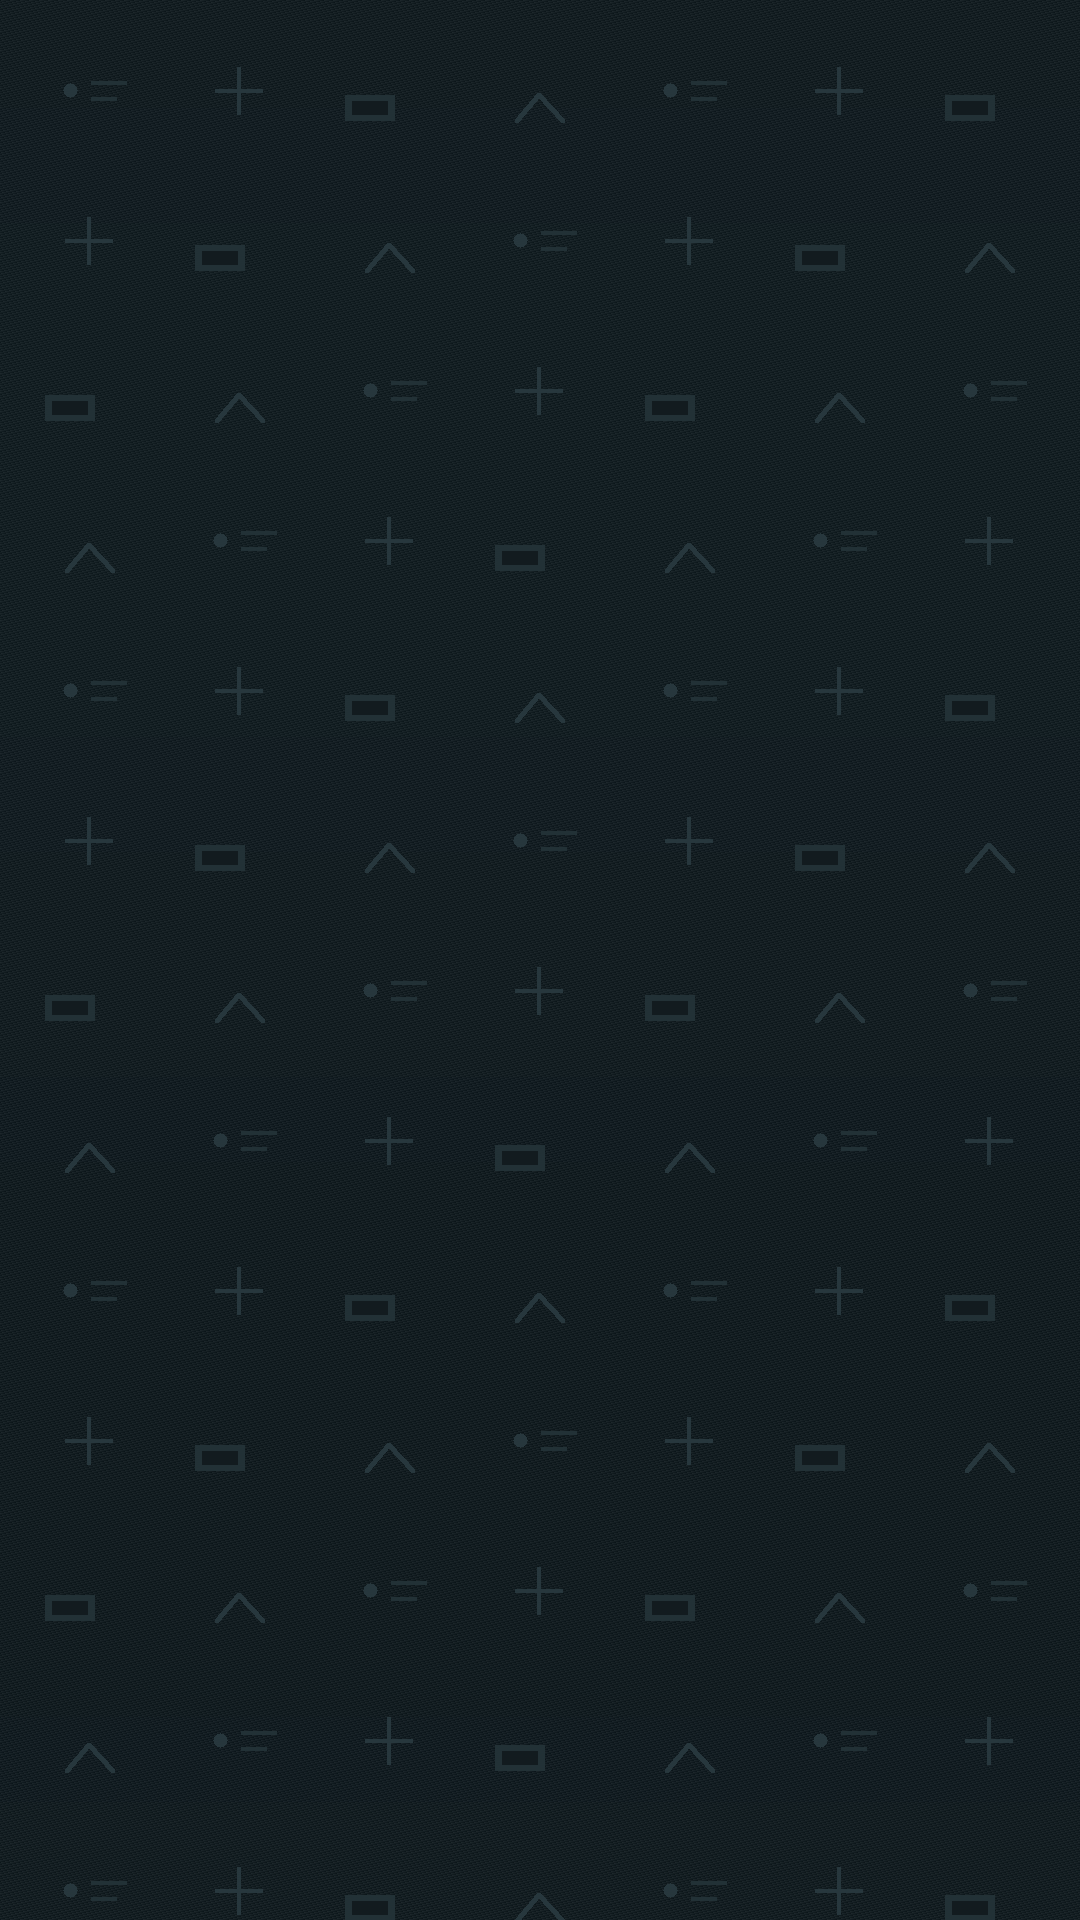
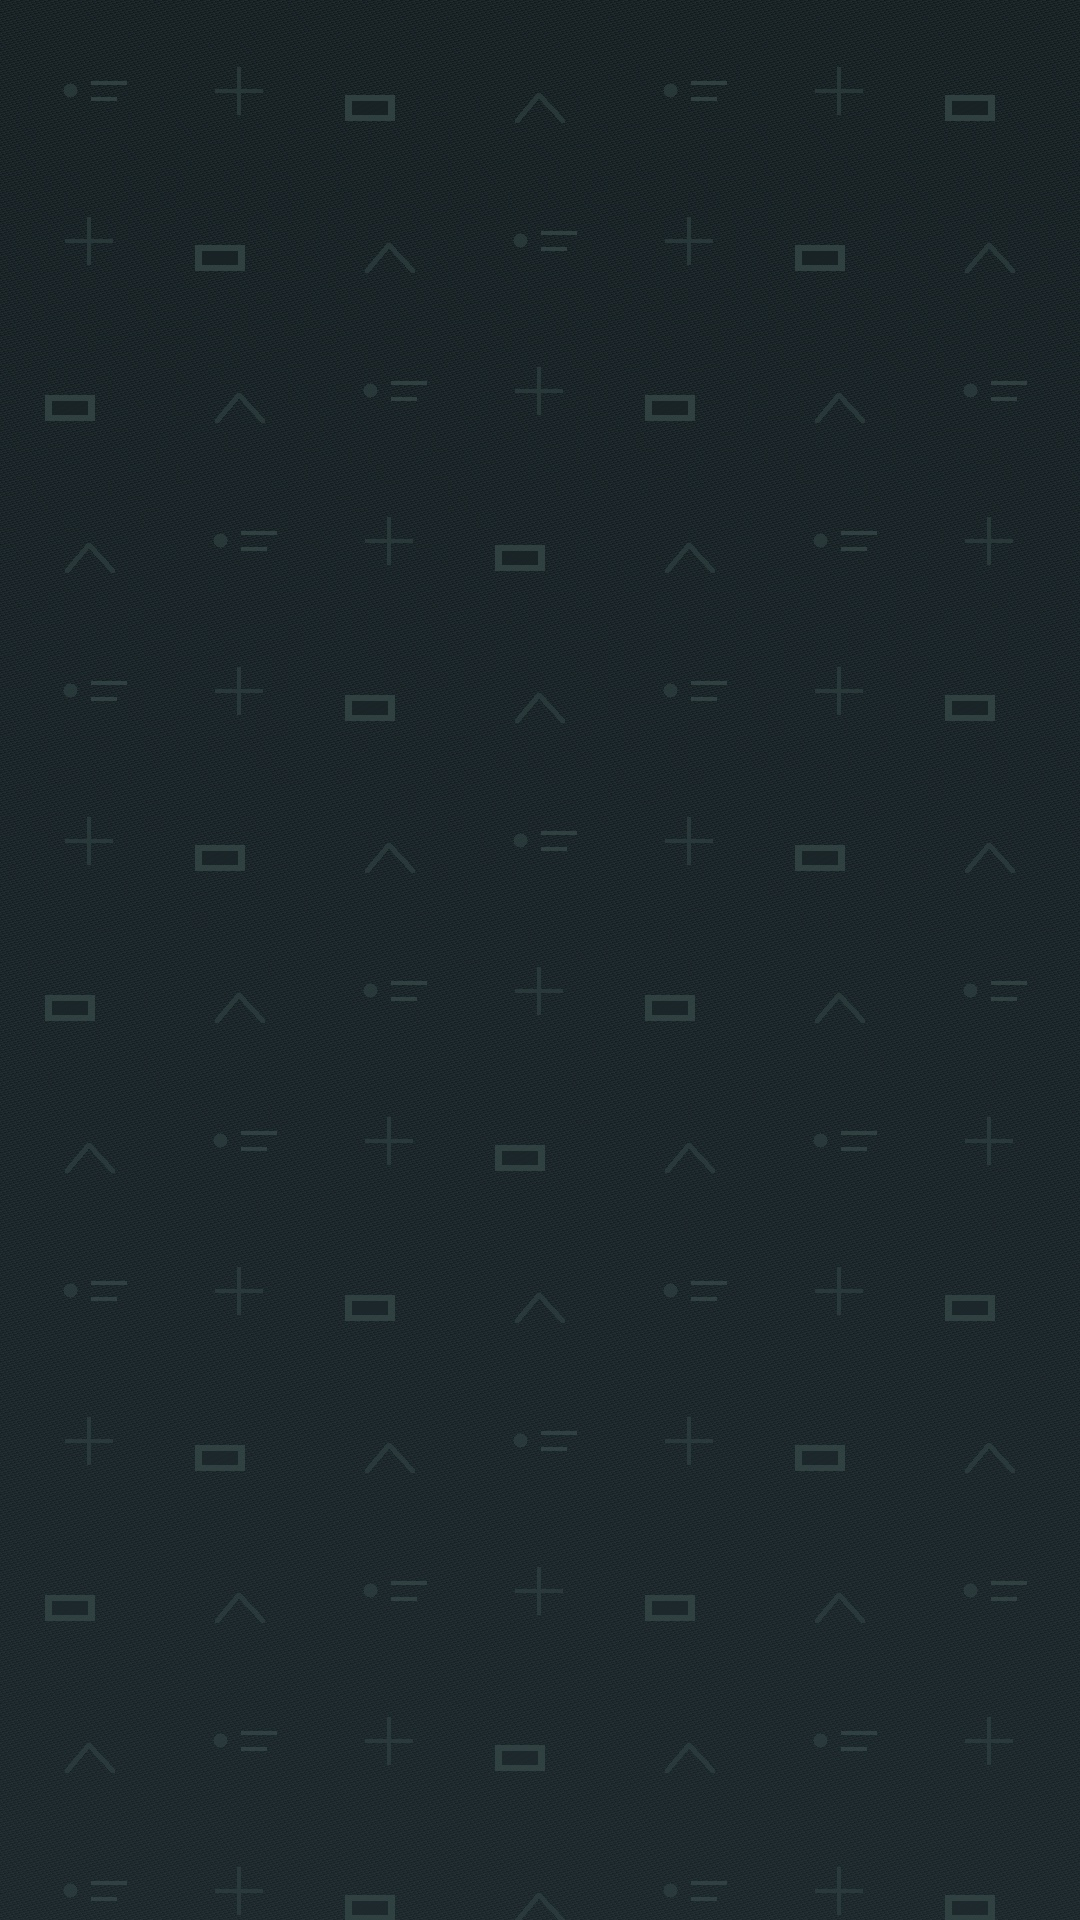
Fix wallpaper themes and bubble contrast

Changed region(s): [[0.0, 0.6562, 1.0, 1.0], [0.2444, 0.625, 0.275, 0.6562]]

diff --git a/apps/ios-archive-viewer/WhatsAppArchiveViewer/Views/MessageListView.swift b/apps/ios-archive-viewer/WhatsAppArchiveViewer/Views/MessageListView.swift
@@ -18,6 +18,7 @@ struct MessageListView: View {
     let olderMessagesErrorMessage: String?
     let initialMessageLoadGeneration: Int
     let wallpaperURL: URL?
+    let wallpaperDarkURL: URL?
     let wallpaperTheme: ChatWallpaperTheme
     let onLoadOlderMessages: () -> Void
     @StateObject private var audioPlayback = AudioPlaybackController()
@@ -55,7 +56,11 @@ struct MessageListView: View {
 
     var body: some View {
         ZStack {
-            ChatWallpaperBackgroundView(wallpaperURL: wallpaperURL, wallpaperTheme: wallpaperTheme)
+            ChatWallpaperBackgroundView(
+                wallpaperURL: wallpaperURL,
+                wallpaperDarkURL: wallpaperDarkURL,
+                wallpaperTheme: wallpaperTheme
+            )
 
             ScrollViewReader { proxy in
                 List {
@@ -256,6 +261,7 @@ struct MessageListView: View {
 private struct ChatWallpaperBackgroundView: View {
     @Environment(\.colorScheme) private var colorScheme
     let wallpaperURL: URL?
+    let wallpaperDarkURL: URL?
     let wallpaperTheme: ChatWallpaperTheme
     @State private var image: CGImage?
     @State private var didFail = false
@@ -275,8 +281,12 @@ private struct ChatWallpaperBackgroundView: View {
                 }
             case .plain:
                 Color(.systemBackground)
-            case .classic, .softPattern, .demo:
+            case .classic:
+                ClassicDoodleWallpaperView()
+            case .softPattern:
                 ProceduralChatWallpaperView(theme: wallpaperTheme)
+            case .demo:
+                AssetChatWallpaperView(assetName: "WallpaperDemoArchive")
             }
         }
         .ignoresSafeArea()
@@ -287,6 +297,9 @@ private struct ChatWallpaperBackgroundView: View {
 
     private var resolvedWallpaperURL: URL? {
         guard wallpaperTheme == .archiveDefault else { return nil }
+        if colorScheme == .dark {
+            return wallpaperDarkURL ?? wallpaperURL
+        }
         return wallpaperURL
     }
 
@@ -294,7 +307,8 @@ private struct ChatWallpaperBackgroundView: View {
         [
             wallpaperTheme.rawValue,
             colorScheme == .dark ? "dark" : "light",
-            resolvedWallpaperURL?.path ?? "none"
+            wallpaperURL?.path ?? "none",
+            wallpaperDarkURL?.path ?? "none"
         ].joined(separator: "|")
     }
 
@@ -322,6 +336,30 @@ private struct ChatWallpaperBackgroundView: View {
     }
 }
 
+struct ClassicDoodleWallpaperView: View {
+    var body: some View {
+        AssetChatWallpaperView(assetName: "WallpaperClassicDoodles")
+    }
+}
+
+struct AssetChatWallpaperView: View {
+    let assetName: String
+
+    var body: some View {
+        GeometryReader { proxy in
+            ZStack {
+                Color(.systemBackground)
+
+                Image(assetName)
+                    .resizable()
+                    .scaledToFill()
+                    .frame(width: proxy.size.width, height: proxy.size.height)
+                    .clipped()
+            }
+        }
+    }
+}
+
 struct ProceduralChatWallpaperView: View {
     @Environment(\.colorScheme) private var colorScheme
     let theme: ChatWallpaperTheme
@@ -337,9 +375,9 @@ struct ProceduralChatWallpaperView: View {
             case .classic:
                 drawClassicSymbols(in: &context, size: size)
             case .softPattern:
-                drawSoftPattern(in: &context, size: size)
-            case .demo:
                 drawDemoCompanionPattern(in: &context, size: size)
+            case .demo:
+                break
             case .archiveDefault, .plain:
                 break
             }
@@ -560,34 +598,6 @@ private struct WallpaperPalette {
             ringLineWidth = 1
             ringOpacity = 0.07
         case (.softPattern, false):
-            background = Color(red: 0.91, green: 0.92, blue: 0.91)
-            dot = Color(red: 0.32, green: 0.38, blue: 0.44).opacity(0.10)
-            line = Color(red: 0.38, green: 0.45, blue: 0.50)
-            ring = Color(red: 0.36, green: 0.43, blue: 0.48)
-            dotSpacing = 28
-            dotSize = 2
-            lineSpacing = 82
-            lineWidth = 0.7
-            lineOpacity = 0.06
-            ringSpacing = 140
-            ringSize = 22
-            ringLineWidth = 0.8
-            ringOpacity = 0.05
-        case (.softPattern, true):
-            background = Color(red: 0.13, green: 0.14, blue: 0.15)
-            dot = Color(red: 0.74, green: 0.78, blue: 0.82).opacity(0.08)
-            line = Color(red: 0.70, green: 0.75, blue: 0.78)
-            ring = Color(red: 0.70, green: 0.75, blue: 0.78)
-            dotSpacing = 28
-            dotSize = 2
-            lineSpacing = 82
-            lineWidth = 0.7
-            lineOpacity = 0.05
-            ringSpacing = 140
-            ringSize = 22
-            ringLineWidth = 0.8
-            ringOpacity = 0.05
-        case (.demo, false):
             background = Color(red: 0.935, green: 0.913, blue: 0.842)
             dot = Color(red: 0.955, green: 0.932, blue: 0.860)
             line = Color(red: 0.690, green: 0.750, blue: 0.705).opacity(0.66)
@@ -601,7 +611,7 @@ private struct WallpaperPalette {
             ringSize = 14
             ringLineWidth = 1
             ringOpacity = 0.08
-        case (.demo, true):
+        case (.softPattern, true):
             background = Color(red: 0.105, green: 0.122, blue: 0.112)
             dot = Color(red: 0.125, green: 0.145, blue: 0.132)
             line = Color(red: 0.255, green: 0.335, blue: 0.300).opacity(0.64)
@@ -1355,6 +1365,10 @@ private struct MessageBubbleView: View {
                 .padding(.horizontal, 12)
                 .padding(.vertical, 8)
                 .background(bubblePalette.background, in: bubbleShape)
+                .overlay {
+                    bubbleShape
+                        .stroke(bubblePalette.border, lineWidth: 0.7)
+                }
                 .textSelection(.enabled)
 
                 if let messageDate = message.messageDate {
@@ -1433,7 +1447,17 @@ private struct ChatBubblePalette {
 
         return isFromMe
             ? Color(red: 0.00, green: 0.36, blue: 0.30)
-            : Color(red: 0.12, green: 0.17, blue: 0.20)
+            : Color(red: 0.205, green: 0.205, blue: 0.205)
+    }
+
+    var border: Color {
+        guard colorScheme == .dark else {
+            return Color.black.opacity(isFromMe ? 0.04 : 0.06)
+        }
+
+        return isFromMe
+            ? Color.white.opacity(0.05)
+            : Color.white.opacity(0.14)
     }
 
     var primaryText: Color {

diff --git a/apps/ios-archive-viewer/WhatsAppArchiveViewer/WhatsAppArchiveApp.swift b/apps/ios-archive-viewer/WhatsAppArchiveViewer/WhatsAppArchiveApp.swift
@@ -297,6 +297,7 @@ final class ArchiveStore: ObservableObject {
     @Published var initialMessageLoadGeneration = 0
     @Published var archiveName = "No Archive"
     @Published var wallpaperURL: URL?
+    @Published var wallpaperDarkURL: URL?
     @Published var wallpaperTheme: ChatWallpaperTheme {
         didSet {
             defaults.set(wallpaperTheme.rawValue, forKey: Self.wallpaperThemeDefaultsKey)
@@ -581,6 +582,7 @@ final class ArchiveStore: ObservableObject {
         resetPaginationState()
         archiveName = "No Archive"
         wallpaperURL = nil
+        wallpaperDarkURL = nil
     }
 
     func loadMessages(for chat: ChatSummary) {
@@ -695,7 +697,10 @@ final class ArchiveStore: ObservableObject {
             messages = []
             resetPaginationState()
             archiveName = savedArchive.displayName
-            wallpaperURL = Self.wallpaperURL(in: access.archiveRootURL)
+            wallpaperURL = Self.wallpaperURL(in: access.archiveRootURL, filename: "current_wallpaper.jpg")
+                ?? Self.wallpaperURL(in: access.archiveRootURL, filename: "current_wallpaper_dark.jpg")
+            wallpaperDarkURL = Self.wallpaperURL(in: access.archiveRootURL, filename: "current_wallpaper_dark.jpg")
+                ?? wallpaperURL
             errorMessage = nil
 
             savedArchive.lastOpenedAt = Date()
@@ -716,6 +721,7 @@ final class ArchiveStore: ObservableObject {
             resetPaginationState()
             archiveName = "No Archive"
             wallpaperURL = nil
+            wallpaperDarkURL = nil
             errorMessage = error.localizedDescription
         }
     }
@@ -750,16 +756,10 @@ final class ArchiveStore: ObservableObject {
         return image
     }
 
-    private static func wallpaperURL(in archiveRootURL: URL) -> URL? {
-        let candidates = [
-            "current_wallpaper.jpg",
-            "current_wallpaper_dark.jpg"
-        ]
-
+    private static func wallpaperURL(in archiveRootURL: URL, filename: String) -> URL? {
         let archiveRootURL = archiveRootURL.standardizedFileURL
-        return candidates
-            .map { archiveRootURL.appendingPathComponent($0).standardizedFileURL }
-            .first { FileManager.default.fileExists(atPath: $0.path) }
+        let url = archiveRootURL.appendingPathComponent(filename).standardizedFileURL
+        return FileManager.default.fileExists(atPath: url.path) ? url : nil
     }
 
     private func refreshContactEnrichment() {

diff --git a/apps/ios-archive-viewer/WhatsAppArchiveViewer/Views/ChatListView.swift b/apps/ios-archive-viewer/WhatsAppArchiveViewer/Views/ChatListView.swift
@@ -150,6 +150,7 @@ struct ChatListView: View {
                     olderMessagesErrorMessage: store.olderMessagesErrorMessage,
                     initialMessageLoadGeneration: store.initialMessageLoadGeneration,
                     wallpaperURL: store.wallpaperURL,
+                    wallpaperDarkURL: store.wallpaperDarkURL,
                     wallpaperTheme: store.wallpaperTheme,
                     onLoadOlderMessages: store.loadOlderMessages
                 )
@@ -254,8 +255,14 @@ private struct WallpaperThemeThumbnail: View {
                 Image(systemName: "rectangle")
                     .font(.title3)
                     .foregroundStyle(.secondary)
-            case .classic, .softPattern, .demo:
+            case .classic:
+                ClassicDoodleWallpaperView()
+                    .clipShape(RoundedRectangle(cornerRadius: 8, style: .continuous))
+            case .softPattern:
                 ProceduralChatWallpaperView(theme: theme)
+                    .clipShape(RoundedRectangle(cornerRadius: 8, style: .continuous))
+            case .demo:
+                AssetChatWallpaperView(assetName: "WallpaperDemoArchive")
                     .clipShape(RoundedRectangle(cornerRadius: 8, style: .continuous))
             }
         }
@@ -277,9 +284,9 @@ private struct WallpaperThemeThumbnail: View {
         case (.classic, false):
             return Color(red: 0.88, green: 0.91, blue: 0.85)
         case (.softPattern, true):
-            return Color(red: 0.13, green: 0.14, blue: 0.15)
+            return Color(red: 0.12, green: 0.13, blue: 0.12)
         case (.softPattern, false):
-            return Color(red: 0.91, green: 0.92, blue: 0.91)
+            return Color(red: 0.88, green: 0.89, blue: 0.82)
         case (.demo, true):
             return Color(red: 0.12, green: 0.13, blue: 0.12)
         case (.demo, false):

diff --git a/apps/ios-archive-viewer/WhatsAppArchiveViewer/Models/ChatSummary.swift b/apps/ios-archive-viewer/WhatsAppArchiveViewer/Models/ChatSummary.swift
@@ -38,11 +38,11 @@ enum ChatWallpaperTheme: String, CaseIterable, Identifiable {
         case .archiveDefault:
             return "Use the selected archive's wallpaper when available."
         case .classic:
-            return "The classic icon-pattern wallpaper, with matching light and dark variants."
+            return "The recovered dense doodle wallpaper, with matching light and dark variants."
         case .softPattern:
-            return "A quiet app-style pattern tuned for readable message bubbles."
+            return "The previous demo companion pattern, with matching light and dark variants."
         case .demo:
-            return "A synthetic companion to Classic with a warmer demo palette."
+            return "Use the bundled demo archive wallpaper pair."
         case .plain:
             return "Disable wallpaper and use a simple background."
         }
